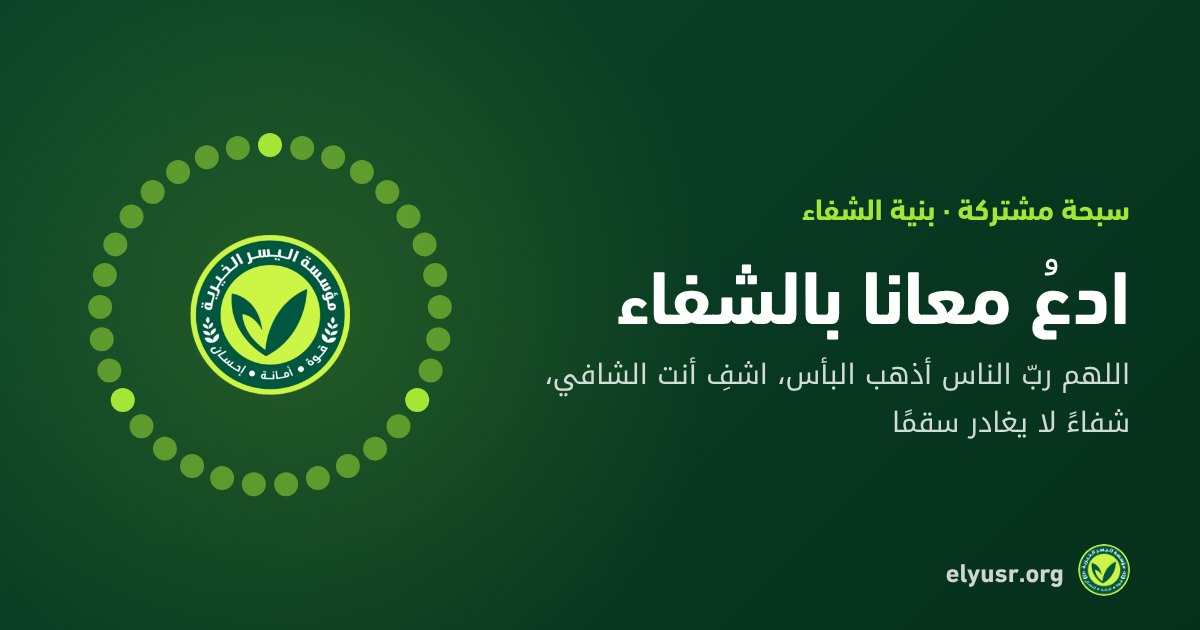
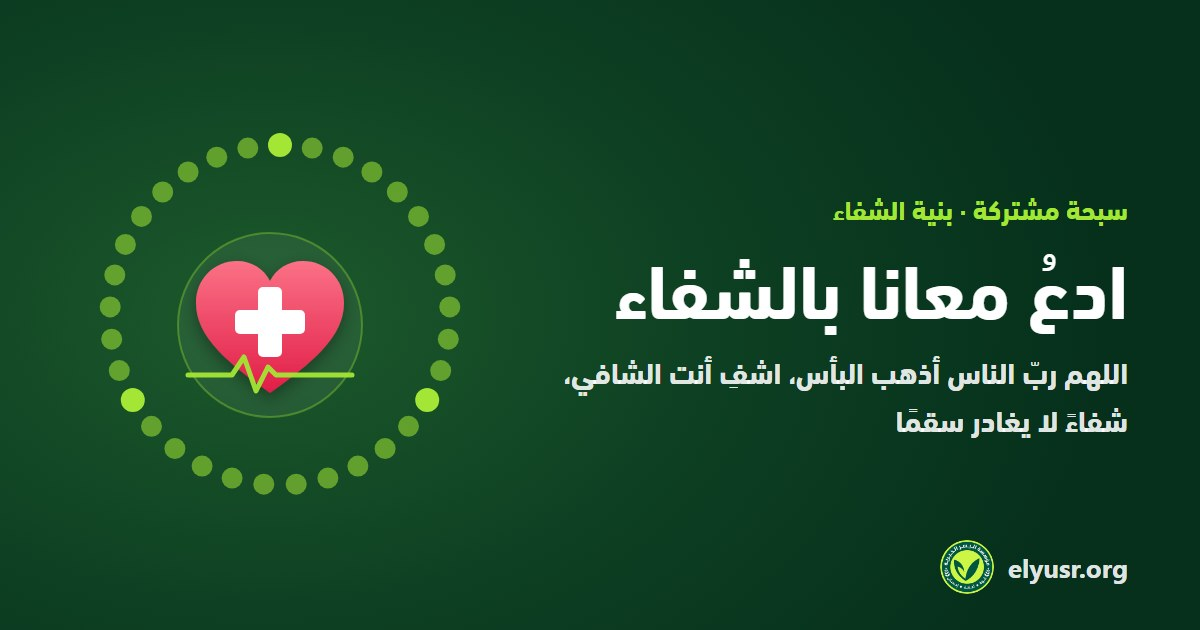
Rename مسبحة to سبحة; own share images for the sebha and healing rooms
- All visitor-facing text now says سبحة (URLs stay /misbaha).
- /misbaha link previews used the site's general cover photo: seo.php now serves og/misbaha.jpg.
- New healing preview (heart + medical cross) and the same emblem on the healing story image.
- scripts/og renders the preview images; image version bumped so caches refresh.

diff --git a/src/pages/site/Misbaha.tsx b/src/pages/site/Misbaha.tsx
@@ -324,7 +324,7 @@ const MisbahaView = ({ roomSlug, isAr }: { roomSlug?: string; isAr: boolean }) =
   const pageUrl = roomSlug ? `https://elyusr.org/misbaha/${roomSlug}` : "https://elyusr.org/misbaha";
   const shareText = room
     ? roomShareText(room.kind, room.gender, room.name, isAr)
-    : (isAr ? "مسبحة إلكترونية من مؤسسة اليسر: صلّ على النبي ﷺ، وسبّح، واستغفر" : "A digital tasbih from Al-Yusr");
+    : (isAr ? "سبحة إلكترونية من مؤسسة اليسر: صلّ على النبي ﷺ، وسبّح، واستغفر" : "A digital tasbih from Al-Yusr");
   const waHref = `https://wa.me/?text=${encodeURIComponent(`${shareText}\n${pageUrl}?utm_source=whatsapp&utm_medium=share&utm_campaign=misbaha`)}`;
   const copyLink = async () => {
     try {
@@ -337,7 +337,7 @@ const MisbahaView = ({ roomSlug, isAr }: { roomSlug?: string; isAr: boolean }) =
   const canNative = typeof navigator !== "undefined" && typeof navigator.share === "function";
   const nativeShare = async () => {
     try {
-      await navigator.share({ title: room ? roomTitle(room.kind, room.gender, room.name, isAr) : isAr ? "المسبحة الإلكترونية" : "Digital tasbih", text: shareText, url: pageUrl });
+      await navigator.share({ title: room ? roomTitle(room.kind, room.gender, room.name, isAr) : isAr ? "السبحة الإلكترونية" : "Digital tasbih", text: shareText, url: pageUrl });
       track("misbaha_share", { payload: { channel: "native", room: roomSlug ?? "personal" }, fbCustom: false });
     } catch { /* dismissed */ }
   };
@@ -355,23 +355,23 @@ const MisbahaView = ({ roomSlug, isAr }: { roomSlug?: string; isAr: boolean }) =
           title={roomSlug === UMMAH_ROOM_SLUG ? (isAr ? "سبحة جميع المسلمين والمسلمات | سبحة جماعية أونلاين — مؤسسة اليسر" : "The misbaha of all Muslims | shared online tasbih — Al-Yusr") : room ? `${isAr ? "سبحة" : "Tasbih"} ${roomTitle(room.kind, room.gender, room.name, isAr)} | ${isAr ? "مؤسسة اليسر" : "Al-Yusr"}` : (isAr ? "سبحة مشتركة | مؤسسة اليسر" : "Shared tasbih | Al-Yusr")}
           description={isAr ? "شارك بالتسبيح والاستغفار والصلاة على النبي ﷺ، ويُضاف كل ذكر إلى عدّاد واحد." : "Join in with tasbih, istighfar and salawat; every dhikr adds to one shared count."}
           path={`/misbaha/${roomSlug}`}
-          image={`https://elyusr.org/og/misbaha-${room?.kind ?? "deceased"}.jpg?v=2026.11`}
+          image={`https://elyusr.org/og/misbaha-${room?.kind ?? "deceased"}.jpg?v=2026.11b`}
         />
       ) : (
       <SEOHelmet
-        title={isAr ? "المسبحة الإلكترونية | صلاة على النبي وتسبيح واستغفار — مؤسسة اليسر" : "Digital tasbih | Salawat, tasbih & istighfar — Al-Yusr"}
-        description={isAr ? "مسبحة إلكترونية سهلة: صلِّ على النبي ﷺ، وسبّح، واستغفر، واذكر الله، مع عدّاد وهدف يومي وفضل كل ذكر من الأحاديث الصحيحة. وأنشئ سبحة مشتركة لروح من تحب وشاركها." : "An easy digital tasbih: salawat, tasbih, istighfar and dhikr with a counter, daily goal and the virtue of each dhikr. Create a shared tasbih for a loved one who passed away."}
+        title={isAr ? "السبحة الإلكترونية | صلاة على النبي وتسبيح واستغفار — مؤسسة اليسر" : "Digital tasbih | Salawat, tasbih & istighfar — Al-Yusr"}
+        description={isAr ? "سبحة إلكترونية سهلة: صلِّ على النبي ﷺ، وسبّح، واستغفر، واذكر الله، مع عدّاد وهدف يومي وفضل كل ذكر من الأحاديث الصحيحة. وأنشئ سبحة مشتركة لروح من تحب وشاركها." : "An easy digital tasbih: salawat, tasbih, istighfar and dhikr with a counter, daily goal and the virtue of each dhikr. Create a shared tasbih for a loved one who passed away."}
         path="/misbaha"
-        image="https://elyusr.org/og/misbaha.jpg?v=2026.11"
+        image="https://elyusr.org/og/misbaha.jpg?v=2026.11b"
       />
       )}
-      <BreadcrumbSchema items={[{ name: isAr ? "الرئيسية" : "Home", url: "https://elyusr.org/" }, { name: isAr ? "المسبحة الإلكترونية" : "Digital tasbih", url: "https://elyusr.org/misbaha" }]} />
+      <BreadcrumbSchema items={[{ name: isAr ? "الرئيسية" : "Home", url: "https://elyusr.org/" }, { name: isAr ? "السبحة الإلكترونية" : "Digital tasbih", url: "https://elyusr.org/misbaha" }]} />
 
       <section className="pattern-hero-luxe relative overflow-hidden text-primary-foreground">
         <div className="pointer-events-none absolute inset-0 leaf-bg opacity-20" />
         <div className="container relative mx-auto max-w-6xl px-4 pb-14 pt-10 md:pb-20 md:pt-14">
           <div className="flex justify-center text-primary-foreground/80">
-            <Breadcrumbs items={[{ name: isAr ? "الرئيسية" : "Home", href: "/" }, { name: isAr ? "المسبحة الإلكترونية" : "Digital tasbih" }]} />
+            <Breadcrumbs items={[{ name: isAr ? "الرئيسية" : "Home", href: "/" }, { name: isAr ? "السبحة الإلكترونية" : "Digital tasbih" }]} />
           </div>
           <div className="mx-auto mt-6 max-w-2xl text-center">
             {roomSlug ? (
@@ -389,9 +389,9 @@ const MisbahaView = ({ roomSlug, isAr }: { roomSlug?: string; isAr: boolean }) =
                     </span>
                   )}
                 </div>
-                <h1 className="text-3xl font-black sm:text-4xl md:text-5xl">{isAr ? "المسبحة الإلكترونية" : "Digital tasbih"}</h1>
+                <h1 className="text-3xl font-black sm:text-4xl md:text-5xl">{isAr ? "السبحة الإلكترونية" : "Digital tasbih"}</h1>
                 <p className="mt-3 text-base text-primary-foreground/85 md:text-lg">
-                  {isAr ? "قل الذكر واضغط على المسبحة. يتغيّر الذكر مع كل ضغطة لتجمع بين الصلاة على النبي ﷺ والتسبيح والاستغفار، ويمكنك أن تختار ذكرًا واحدًا إن أردت. يُحفظ عدّادك على جهازك طوال اليوم، ويبدأ من جديد مع كل يوم." : "Say the dhikr and tap the beads. It changes with every tap so you combine salawat, tasbih and istighfar; you can also pick a single dhikr. Your count stays on this device for the day and starts fresh each new day."}
+                  {isAr ? "قل الذكر واضغط على السبحة. يتغيّر الذكر مع كل ضغطة لتجمع بين الصلاة على النبي ﷺ والتسبيح والاستغفار، ويمكنك أن تختار ذكرًا واحدًا إن أردت. يُحفظ عدّادك على جهازك طوال اليوم، ويبدأ من جديد مع كل يوم." : "Say the dhikr and tap the beads. It changes with every tap so you combine salawat, tasbih and istighfar; you can also pick a single dhikr. Your count stays on this device for the day and starts fresh each new day."}
                 </p>
               </>
             )}
@@ -401,7 +401,7 @@ const MisbahaView = ({ roomSlug, isAr }: { roomSlug?: string; isAr: boolean }) =
             {/* ── Counter ── */}
             <div className="flex min-w-0 flex-col items-center">
               <div className="mb-5 flex min-h-[8.75rem] w-full min-w-0 max-w-md flex-col justify-center text-center sm:min-h-[6.5rem]" aria-live="polite">
-                <p className="text-xs font-black text-secondary">{isMixed ? (isAr ? "قل الآن" : "Say now") : (isAr ? "ذكرك" : "Your dhikr")}<span className="hidden font-bold text-white/45 sm:inline">{isAr ? " (اضغط على المسبحة أو زر المسافة)" : " (tap the beads or press Space)"}</span></p>
+                <p className="text-xs font-black text-secondary">{isMixed ? (isAr ? "قل الآن" : "Say now") : (isAr ? "ذكرك" : "Your dhikr")}<span className="hidden font-bold text-white/45 sm:inline">{isAr ? " (اضغط على السبحة أو زر المسافة)" : " (tap the beads or press Space)"}</span></p>
                 <p key={`${dhikr.id}-${isMixed ? count : 0}`} className="misbaha-fade mt-1 text-xl font-black leading-[1.7] text-white sm:text-2xl">{isAr ? dhikr.text : dhikr.en}</p>
                 {nextDhikr && (
                   <p className="mt-1 truncate text-xs font-bold text-white/55">{isAr ? `التالي: ${nextDhikr.text}` : `Next: ${nextDhikr.en}`}</p>
@@ -592,7 +592,7 @@ const MisbahaView = ({ roomSlug, isAr }: { roomSlug?: string; isAr: boolean }) =
               <div className="keep-flow mt-6 grid gap-2 border-t sm:flex sm:flex-wrap border-border pt-5">
                 <button type="button" onClick={share} className="inline-flex min-h-11 items-center justify-center gap-1.5 rounded-xl border border-border px-4 py-2 text-sm font-bold text-primary transition hover:border-secondary hover:bg-secondary/10">
                   {copied ? <Check className="h-4 w-4 text-secondary" /> : <Share2 className="h-4 w-4" />}
-                  {copied ? (isAr ? "تم نسخ الرابط" : "Link copied") : isAr ? "شارك المسبحة، والدال على الخير كفاعله" : "Share the tasbih"}
+                  {copied ? (isAr ? "تم نسخ الرابط" : "Link copied") : isAr ? "شارك السبحة، والدال على الخير كفاعله" : "Share the tasbih"}
                 </button>
                 {!isCustom && (
                   <button type="button" onClick={shareDhikr} className="inline-flex min-h-11 items-center justify-center gap-1.5 rounded-xl border border-border px-4 py-2 text-sm font-bold text-primary transition hover:border-secondary hover:bg-secondary/10">

diff --git a/scripts/og/misbaha-og.html b/scripts/og/misbaha-og.html
@@ -1,0 +1,90 @@
+<!doctype html>
+<!--
+  Link-preview images (1200×630) for the sebha pages: public/og/misbaha.jpg and misbaha-sick.jpg.
+  Rendered with headless Chrome by scripts/og/render-misbaha-og.sh — open with ?v=main or ?v=sick.
+-->
+<html lang="ar" dir="rtl">
+<head>
+<meta charset="utf-8" />
+<style>
+  @font-face { font-family: "DIN"; src: url("../../public/fonts/DINNextLTArabic-Bold.ttf"); font-weight: 700 900; }
+  * { box-sizing: border-box; margin: 0; padding: 0; }
+  html, body { width: 1200px; height: 630px; overflow: hidden; }
+  body {
+    font-family: "DIN", sans-serif; color: #fff; position: relative;
+    background: radial-gradient(ellipse 70% 90% at 22% 50%, #1d5a2c 0%, #0d3f22 55%, #06301c 100%);
+  }
+  .ring { position: absolute; left: 70px; top: 105px; width: 420px; height: 420px; }
+  .center { position: absolute; left: 190px; top: 225px; width: 180px; height: 180px; display: grid; place-items: center; }
+  .center img { width: 160px; height: 160px; border-radius: 50%; }
+  .text { position: absolute; right: 72px; top: 0; bottom: 0; width: 620px; display: flex; flex-direction: column; justify-content: center; }
+  .kicker { color: #a3e635; font-size: 27px; font-weight: 800; }
+  h1 { margin-top: 14px; font-size: 76px; line-height: 1.15; font-weight: 900; }
+  p { margin-top: 18px; font-size: 30px; line-height: 1.6; color: rgba(255,255,255,0.9); }
+  .foot { position: absolute; right: 72px; bottom: 36px; display: flex; align-items: center; gap: 14px; direction: ltr; }
+  .foot b { font-family: system-ui, sans-serif; font-size: 26px; font-weight: 700; color: rgba(255,255,255,0.9); }
+  .foot img { width: 54px; height: 54px; border-radius: 50%; }
+</style>
+</head>
+<body>
+  <svg class="ring" viewBox="0 0 420 420" id="ring"></svg>
+  <div class="center" id="center"></div>
+  <div class="text">
+    <div class="kicker" id="kicker"></div>
+    <h1 id="title"></h1>
+    <p id="line"></p>
+  </div>
+  <div class="foot"><img src="../../public/icons/icon-192.png" alt="" /><b>elyusr.org</b></div>
+
+<script>
+  const V = new URLSearchParams(location.search).get("v") || "main";
+  const C = {
+    main: {
+      kicker: "مؤسسة اليسر الخيرية",
+      title: "السبحة الإلكترونية",
+      line: "صلِّ على النبي ﷺ، وسبّح، واستغفر — واعمل سبحة مشتركة لحد غالي عليك",
+    },
+    sick: {
+      kicker: "سبحة مشتركة · بنية الشفاء",
+      title: "ادعُ معانا بالشفاء",
+      line: "اللهم ربّ الناس أذهب البأس، اشفِ أنت الشافي، شفاءً لا يغادر سقمًا",
+    },
+  }[V];
+  document.getElementById("kicker").textContent = C.kicker;
+  document.getElementById("title").textContent = C.title;
+  document.getElementById("line").textContent = C.line;
+
+  // 33 beads, the three «marker» beads brighter (same look as the site's sebha).
+  const ring = document.getElementById("ring");
+  let beads = "";
+  for (let i = 0; i < 33; i++) {
+    const a = (-90 + (i * 360) / 33) * (Math.PI / 180);
+    const x = 210 + 170 * Math.cos(a), y = 210 + 170 * Math.sin(a);
+    const mark = i % 11 === 0;
+    beads += `<circle cx="${x.toFixed(1)}" cy="${y.toFixed(1)}" r="${mark ? 12 : 10.5}" fill="${mark ? "#a3e635" : "rgba(163,230,53,0.55)"}"/>`;
+  }
+  ring.innerHTML = beads;
+
+  const center = document.getElementById("center");
+  if (V === "sick") {
+    // A heart with a medical cross and a pulse line: «for healing».
+    center.innerHTML = `
+      <svg viewBox="0 0 200 200" width="200" height="200">
+        <defs>
+          <linearGradient id="h" x1="0" y1="0" x2="0" y2="1">
+            <stop offset="0" stop-color="#fb7185"/><stop offset="1" stop-color="#e11d48"/>
+          </linearGradient>
+          <filter id="s" x="-20%" y="-20%" width="140%" height="140%"><feDropShadow dx="0" dy="6" stdDeviation="8" flood-color="#000" flood-opacity="0.35"/></filter>
+        </defs>
+        <circle cx="100" cy="100" r="92" fill="rgba(255,255,255,0.06)" stroke="rgba(163,230,53,0.35)" stroke-width="2"/>
+        <path filter="url(#s)" fill="url(#h)" d="M100 168 C 58 138, 26 112, 26 78 C 26 54, 44 36, 67 36 C 82 36, 94 44, 100 56 C 106 44, 118 36, 133 36 C 156 36, 174 54, 174 78 C 174 112, 142 138, 100 168 Z"/>
+        <rect x="88" y="62" width="24" height="70" rx="5" fill="#fff"/>
+        <rect x="65" y="85" width="70" height="24" rx="5" fill="#fff"/>
+        <polyline points="18,150 62,150 74,132 86,166 98,142 106,150 182,150" fill="none" stroke="#a3e635" stroke-width="5" stroke-linecap="round" stroke-linejoin="round" opacity="0.95"/>
+      </svg>`;
+  } else {
+    center.innerHTML = `<img src="../../public/icons/icon-512.png" alt="" />`;
+  }
+</script>
+</body>
+</html>

diff --git a/src/lib/misbahaStoryImage.ts b/src/lib/misbahaStoryImage.ts
@@ -49,6 +49,8 @@ export async function drawMisbahaStory(opts: {
   url: string;
   rtl: boolean;
   locale: string;
+  /** «healing»: a heart with a medical cross above the title (sebha for someone sick). */
+  emblem?: "healing";
 }): Promise<Blob> {
   try {
     await document.fonts?.ready;
@@ -81,10 +83,11 @@ export async function drawMisbahaStory(opts: {
   g.fillStyle = glow;
   g.fillRect(0, 0, W, 1100);
 
-  // kicker
+  // kicker (with the healing emblem above it for a sick person's sebha)
+  if (opts.emblem === "healing") drawHealingHeart(g, cx, 92, 1);
   g.fillStyle = LIME;
   g.font = `800 38px ${font}`;
-  g.fillText(opts.kicker, cx, 150);
+  g.fillText(opts.kicker, cx, opts.emblem ? 196 : 150);
 
   // bead ring: lit beads show the share of the goal reached
   const lit = Math.round(Math.max(0, Math.min(1, opts.progress ?? 0)) * 33);
@@ -161,6 +164,38 @@ export async function drawMisbahaStory(opts: {
   g.fillText(opts.rtl ? "مؤسسة اليسر الخيرية · elyusr.org" : "Al-Yusr Charity · elyusr.org", cx, H - 56);
 
   return await new Promise<Blob>((resolve, reject) => c.toBlob((b) => (b ? resolve(b) : reject(new Error("toBlob failed"))), "image/png"));
+}
+
+/** A rose heart with a white medical cross; `cy` is the heart's middle, ~110 px wide at scale 1. */
+export function drawHealingHeart(g: CanvasRenderingContext2D, cx: number, cy: number, scale: number) {
+  g.save();
+  g.translate(cx, cy);
+  g.scale(scale * 0.75, scale * 0.75);
+  g.translate(-100, -100);
+  const grad = g.createLinearGradient(0, 36, 0, 168);
+  grad.addColorStop(0, "#fb7185");
+  grad.addColorStop(1, "#e11d48");
+  g.shadowColor = "rgba(0,0,0,0.35)";
+  g.shadowBlur = 16;
+  g.shadowOffsetY = 6;
+  g.fillStyle = grad;
+  g.beginPath();
+  g.moveTo(100, 168);
+  g.bezierCurveTo(58, 138, 26, 112, 26, 78);
+  g.bezierCurveTo(26, 54, 44, 36, 67, 36);
+  g.bezierCurveTo(82, 36, 94, 44, 100, 56);
+  g.bezierCurveTo(106, 44, 118, 36, 133, 36);
+  g.bezierCurveTo(156, 36, 174, 54, 174, 78);
+  g.bezierCurveTo(174, 112, 142, 138, 100, 168);
+  g.closePath();
+  g.fill();
+  g.shadowColor = "transparent";
+  g.fillStyle = "#fff";
+  roundRect(g, 88, 62, 24, 70, 5);
+  g.fill();
+  roundRect(g, 65, 85, 70, 24, 5);
+  g.fill();
+  g.restore();
 }
 
 function roundRect(g: CanvasRenderingContext2D, x: number, y: number, w: number, h: number, r: number) {

diff --git a/src/data/api/mailApi.ts b/src/data/api/mailApi.ts
@@ -91,9 +91,9 @@ export const MAIL_KIND_LABELS: Record<MailKind, string> = {
   volunteer: "طلب تطوع",
   newsletter: "نشرة بريدية",
   newsletter_confirm: "تأكيد اشتراك النشرة",
-  misbaha_goal: "المسبحة وصلت الهدف",
-  misbaha_weekly: "ملخص المسبحة الأسبوعي",
-  misbaha_confirm: "اشتراك المسبحة",
+  misbaha_goal: "السبحة وصلت الهدف",
+  misbaha_weekly: "ملخص السبحة الأسبوعي",
+  misbaha_confirm: "اشتراك السبحة",
   test: "تجربة",
 };
 
@@ -114,8 +114,8 @@ export const AUTOMATIONS: { key: keyof MailSettings; kind: MailKind; title: stri
   { key: "case_update", kind: "case_update", title: "تحديث الحالة", when: "لما يتنشر تحديث على حالة المتبرع ساهم فيها" },
   { key: "volunteer", kind: "volunteer", title: "طلب التطوع", when: "لما حد يسجل طلب تطوع" },
   { key: "failed", kind: "failed", title: "تبرع لم يكتمل", when: "لما الدفع يفشل أو يتلغى" },
-  { key: "misbaha_goal", kind: "misbaha_goal", title: "المسبحة وصلت الهدف", when: "لمتابعين السبحة، مرة واحدة لما العداد يكمل" },
-  { key: "misbaha_weekly", kind: "misbaha_weekly", title: "ملخص المسبحة الأسبوعي", when: "كل جمعة الساعة 9 الصبح، لو في ذكر جديد" },
+  { key: "misbaha_goal", kind: "misbaha_goal", title: "السبحة وصلت الهدف", when: "لمتابعين السبحة، مرة واحدة لما العداد يكمل" },
+  { key: "misbaha_weekly", kind: "misbaha_weekly", title: "ملخص السبحة الأسبوعي", when: "كل جمعة الساعة 9 الصبح، لو في ذكر جديد" },
 ];
 
 /** Other templates that always go out (no switch): previewable too. */

diff --git a/src/components/layout/Footer.tsx b/src/components/layout/Footer.tsx
@@ -385,7 +385,7 @@ export const Footer = () => {
               <li><Link to="/water" {...prefetchHandlers("/water")} className="block text-primary-foreground/85 hover:text-secondary">{lang === "ar" ? "سقيا الماء" : "Clean water"}</Link></li>
               <li><Link to="/medical" {...prefetchHandlers("/medical")} className="block text-primary-foreground/85 hover:text-secondary">{lang === "ar" ? "المساعدات الطبية" : "Medical aid"}</Link></li>
               <li><Link to="/ten-days" {...prefetchHandlers("/ten-days")} className="block text-primary-foreground/85 hover:text-secondary">{lang === "ar" ? "صدقات العشر الأوائل" : "The ten days"}</Link></li>
-              <li><Link to="/misbaha" {...prefetchHandlers("/misbaha")} className="block text-primary-foreground/85 hover:text-secondary">{lang === "ar" ? "المسبحة الإلكترونية" : "Digital tasbih"}</Link></li>
+              <li><Link to="/misbaha" {...prefetchHandlers("/misbaha")} className="block text-primary-foreground/85 hover:text-secondary">{lang === "ar" ? "السبحة الإلكترونية" : "Digital tasbih"}</Link></li>
               <li><Link to="/nurseries" {...prefetchHandlers("/nurseries")} className="block text-primary-foreground/85 hover:text-secondary">{lang === "ar" ? "حضانات اليسر" : "Nurseries & Qur'an houses"}</Link></li>
               <li><Link to="/athar" {...prefetchHandlers("/athar")} className="block text-primary-foreground/85 hover:text-secondary">{lang === "ar" ? "حملة أَثَر التعليمية" : "Athar Education"}</Link></li>
               <li><Link to="/ramadan" {...prefetchHandlers("/ramadan")} className="block text-primary-foreground/85 hover:text-secondary">{lang === "ar" ? "موسم رمضان المبارك" : "Ramadan Season"}</Link></li>

diff --git a/src/pages/admin/AdminSiteBlocks.tsx b/src/pages/admin/AdminSiteBlocks.tsx
@@ -409,7 +409,7 @@ const BUILT_IN_HEADER: NavLink[] = [
   { label_ar: "برامجنا", label_en: "Programs", href: "/programs" },
   { label_ar: "مشاريعنا", label_en: "Projects", href: "/projects" },
   { label_ar: "حملاتنا", label_en: "Campaigns", href: "/campaigns" },
-  { label_ar: "المسبحة", label_en: "Tasbih", href: "/misbaha" },
+  { label_ar: "السبحة", label_en: "Tasbih", href: "/misbaha" },
   { label_ar: "الحالات", label_en: "Cases", href: "/cases" },
   { label_ar: "المدونة", label_en: "Blog", href: "/blog" },
   { label_ar: "تواصل معنا", label_en: "Contact", href: "/contact" },
@@ -443,7 +443,7 @@ const BUILT_IN_FOOTER: FooterLink[] = [
     ["سقيا الماء", "Clean water", "/water"],
     ["المساعدات الطبية", "Medical aid", "/medical"],
     ["صدقات العشر الأوائل", "The ten days", "/ten-days"],
-    ["المسبحة الإلكترونية", "Digital tasbih", "/misbaha"],
+    ["السبحة الإلكترونية", "Digital tasbih", "/misbaha"],
     ["حضانات اليسر", "Nurseries & Qur'an houses", "/nurseries"],
     ["حملة أَثَر التعليمية", "Athar Education", "/athar"],
     ["موسم رمضان المبارك", "Ramadan Season", "/ramadan"],

diff --git a/src/data/seoOwnerLinks.ts b/src/data/seoOwnerLinks.ts
@@ -19,7 +19,7 @@ export const OWNER_PAGES: Record<string, OwnerPage> = {
   "/programs/bride": { path: "/programs/bride", ar: "تجهيز عرائس يتيمات", en: "Help a bride's trousseau" },
   "/qurbani": { path: "/qurbani", ar: "صك الأضحية أونلاين", en: "Qurbani share online" },
   "/cases": { path: "/cases", ar: "حالات إنسانية تحتاج مساعدة", en: "Cases that need help" },
-  "/misbaha": { path: "/misbaha", ar: "مسبحة إلكترونية جماعية", en: "Shared online tasbih" },
+  "/misbaha": { path: "/misbaha", ar: "سبحة إلكترونية جماعية", en: "Shared online tasbih" },
   "/volunteer": { path: "/volunteer", ar: "فرص تطوع في المنصورة", en: "Volunteer in Mansoura" },
   "/trust": { path: "/trust", ar: "هل مؤسسة اليسر موثوقة؟", en: "Is Al-Yusr trustworthy?" },
   "/donate-from-abroad": { path: "/donate-from-abroad", ar: "التبرع لمصر من الخارج", en: "Give to Egypt from abroad" },

diff --git a/src/components/layout/Navbar.tsx b/src/components/layout/Navbar.tsx
@@ -120,7 +120,7 @@ export const Navbar = () => {
     { to: "/programs",  label: lang === "ar" ? "برامجنا" : "Programs" },
     { to: "/projects",  label: lang === "ar" ? "مشاريعنا" : "Projects", wide: true, Icon: FolderKanban, descAr: "مشاريع الخير الكبيرة", descEn: "Our larger projects" },
     { to: "/campaigns", label: lang === "ar" ? "حملاتنا" : "Campaigns" },
-    { to: "/misbaha",   label: lang === "ar" ? "المسبحة" : "Tasbih" },
+    { to: "/misbaha",   label: lang === "ar" ? "السبحة" : "Tasbih" },
     ...(hasCases ? [{ to: "/cases", label: lang === "ar" ? "الحالات" : "Cases" }] : []),
     { to: "/blog",      label: lang === "ar" ? "المدونة" : "Blog", wide: true, Icon: BookOpen, descAr: "قصص ومقالات", descEn: "Stories and articles" },
     { to: "/contact",   label: t.nav.contact, wide: true, Icon: Phone, descAr: "واتساب وهاتف وعنوان", descEn: "WhatsApp, phone, address" },

diff --git a/src/pages/MisbahaMailAction.tsx b/src/pages/MisbahaMailAction.tsx
@@ -53,7 +53,7 @@ export default function MisbahaMailAction({ action }: { action: "confirm" | "uns
                 {room?.slug && (
                   <Link to={`/misbaha/${room.slug}`} className="inline-flex h-11 items-center rounded-2xl bg-orange-grad px-5 text-sm font-black text-accent-foreground shadow-cta">سبّح دلوقتي</Link>
                 )}
-                <Link to="/misbaha" className="inline-flex h-11 items-center rounded-2xl border border-primary/15 bg-background px-5 text-sm font-extrabold text-primary">المسبحة</Link>
+                <Link to="/misbaha" className="inline-flex h-11 items-center rounded-2xl border border-primary/15 bg-background px-5 text-sm font-extrabold text-primary">السبحة</Link>
               </div>
             </>
           )}

diff --git a/src/pages/landings/AshrLanding.tsx b/src/pages/landings/AshrLanding.tsx
@@ -248,7 +248,7 @@ const AshrLanding = () => {
         { href: "/qurbani", ar: "صك الأضحية", en: "Qurbani share" },
         { href: "/farm", ar: "المزرعة الوقفية", en: "Waqf farm" },
         { href: "/water", ar: "سقيا الماء", en: "Clean water" },
-        { href: "/misbaha", ar: "المسبحة الإلكترونية", en: "Digital tasbih" },
+        { href: "/misbaha", ar: "السبحة الإلكترونية", en: "Digital tasbih" },
       ]}
       faq={{
         ar: c.faq.map((f) => ({ q: f.q.ar, a: f.a.ar })),

diff --git a/src/components/admin/mail/mailStarters.ts b/src/components/admin/mail/mailStarters.ts
@@ -6,7 +6,7 @@ export const EMAIL_HEROES: { url: string; label: string }[] = [
   { url: "/email/hero-water.jpg", label: "سقيا الماء" },
   { url: "/email/hero-orphans.jpg", label: "الأيتام" },
   { url: "/email/hero-sprout.jpg", label: "صدقة جارية" },
-  { url: "/email/hero-misbaha.jpg", label: "المسبحة" },
+  { url: "/email/hero-misbaha.jpg", label: "السبحة" },
   { url: "/email/hero-volunteers.jpg", label: "المتطوعين" },
   { url: "/email/hero-farm.jpg", label: "المزرعة" },
 ];

diff --git a/src/pages/admin/AdminMailCenter.tsx b/src/pages/admin/AdminMailCenter.tsx
@@ -28,7 +28,7 @@ const TABS: { id: Tab; label: string; icon: typeof Mail }[] = [
   { id: "overview", label: "نظرة عامة", icon: Inbox },
   { id: "automations", label: "الرسائل التلقائية", icon: Zap },
   { id: "log", label: "سجل الإيميلات", icon: Mail },
-  { id: "misbaha", label: "متابعين المسبحة", icon: Sparkles },
+  { id: "misbaha", label: "متابعين السبحة", icon: Sparkles },
   { id: "settings", label: "الإعدادات", icon: Settings2 },
 ];
 
